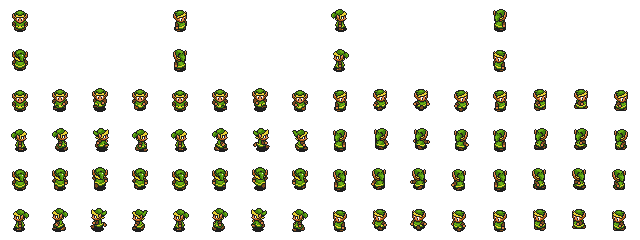
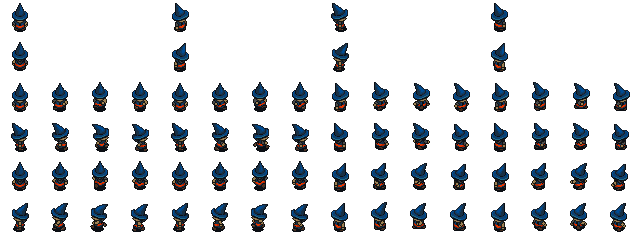
Added new main character.

diff --git a/src/scripts/scenes/mainScene.ts b/src/scripts/scenes/mainScene.ts
@@ -9,6 +9,7 @@ import FireBallEffect from '../objects/fireBallEffect';
 import { facingToSpriteNameMap } from '../helpers/constants';
 import { getFacing, getVelocitiesForFacing } from '../helpers/orientation';
 import FireBall from '../abilities/fireBall'
+import FireBall from '../abilities/fireBall'
 import EnemyToken from '../objects/enemyToken';
 
 // The main scene handles the actual game play.
@@ -24,6 +25,7 @@ export default class MainScene extends Phaser.Scene {
   fireballEffect: FireBallEffect | undefined;
   tileLayer: any;
   enemy: EnemyToken;
+  sportLight: Phaser.GameObjects.Light;
 
   constructor() {
     super({ key: 'MainScene' })
@@ -37,8 +39,11 @@ export default class MainScene extends Phaser.Scene {
       new PlayerCharacterToken(this, this.cameras.main.width / 2, this.cameras.main.height / 2);
     this.mainCharacter.setDepth(1);
 
+    this.cameras.default.startFollow(this.mainCharacter);
+
     this.enemy = new EnemyToken(this, this.cameras.main.width/2+20, this.cameras.main.height /2+20);
     this.enemy.setDepth(1);
+
     // const fireball =
       // new FireBall(this, this.cameras.main.width / 2, this.cameras.main.height / 2);
 
@@ -51,7 +56,6 @@ export default class MainScene extends Phaser.Scene {
     this.abilityKey1 = this.input.keyboard.addKey(Phaser.Input.Keyboard.KeyCodes.ONE);
 
     this.drawRoom();
-
   }
 
   drawRoom() {

diff --git a/src/scripts/objects/iceNovaEffect.ts b/src/scripts/objects/iceNovaEffect.ts
@@ -1,0 +1,38 @@
+export default class IceNovaEffect extends Phaser.Physics.Arcade.Image {
+    emitter: Phaser.GameObjects.Particles.ParticleEmitter;
+    constructor(scene: Phaser.Scene, x: number, y: number) {
+      super(scene, x, y, 'empty-tile');
+      scene.add.existing(this);
+      this.setDepth(1);
+      scene.physics.add.existing(this);
+      this.body.setCircle(3, 0, 0);
+      this.body.setMass(1);
+  
+      const particles = scene.add.particles('ice');
+      particles.setDepth(1);
+      this.emitter = particles.createEmitter({
+        alpha: { start: 1, end: 0 },
+        scale: { start: 0.3, end: 0.05 },
+        // tint: { start: 0xff945e, end: 0x660000 }, //0x663300
+        speed: 20,
+        // accelerationY: -300,
+        // angle: { min: -85, max: -95 },
+        rotate: { min: -180, max: 180 },
+        lifespan: { min: 400, max: 600 },
+        blendMode: Phaser.BlendModes.ADD,
+        frequency: 30,
+        maxParticles: 200,
+      });
+      this.emitter.startFollow(this.body.gameObject);
+      this.emitter.start();
+    }
+  
+    destroy() {
+      this.emitter.stopFollow();
+      this.emitter.setEmitterAngle({min: -180, max: 180});
+      this.emitter.setSpeed(100);
+      this.emitter.explode(10, this.body.x, this.body.y);
+  
+      super.destroy();
+    }
+  }

diff --git a/src/scripts/objects/enemyToken.ts b/src/scripts/objects/enemyToken.ts
@@ -5,9 +5,9 @@ export default class Enemy extends NPC {
   emitter: Phaser.GameObjects.Particles.ParticleEmitter;
 
   constructor(scene: Phaser.Scene, x: number, y: number) {
-  super(scene, x, y, 'empty_tile')
-  scene.add.existing(this)
-  scene.physics.add.existing(this)
+  super(scene, x, y, 'empty-tile');
+  scene.add.existing(this);
+  scene.physics.add.existing(this);
   this.enemy = 1;
   //this.body.setCircle(10, 10, 12);
   this.setInteractive()

diff --git a/src/scripts/scenes/preloadScene.ts b/src/scripts/scenes/preloadScene.ts
@@ -19,6 +19,7 @@ export default class PreloadScene extends Phaser.Scene {
     this.load.image('test-tileset', 'assets/img/til_Test.png');
 
     this.load.image('fire', 'assets/img/muzzleflash3.png');
+    this.load.image('ice', 'assets/img/ice_spike.png');
 
     const roomId = getUrlParam('roomName') || 'room-firstTest';
     this.load.json(roomId, `assets/rooms/${roomId}.json`);

diff --git a/src/scripts/game.ts b/src/scripts/game.ts
@@ -22,7 +22,7 @@ const config: Phaser.Types.Core.GameConfig = {
   physics: {
     default: 'arcade',
     arcade: {
-      debug: true,
+      debug: false,
     }
   }
 }
